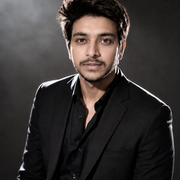
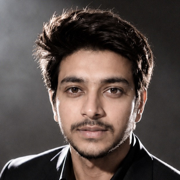
Update website

diff --git a/components/main/why-work.tsx b/components/main/why-work.tsx
@@ -5,39 +5,39 @@ import { SectionContainer } from "@/components/layout/section-container";
 const FEATURES = [
   {
     number: "01",
-    title: "Purposeful Direction",
+    title: "Cinematic-First Thinking",
     description:
-      "Every frame serves a goal. I align AI visuals and campaigns with your brand's message and business outcome — not just aesthetics.",
+      "I don't just generate visuals — I direct them. Every shot is composed with intention, built around story and emotion, not just prompts.",
   },
   {
     number: "02",
-    title: "In-The-Trenches Craft",
+    title: "Hands-On With Every Tool",
     description:
-      "I work inside the tools daily — prompting, generating, compositing, editing — so nothing gets lost between concept and final render.",
+      "I work daily inside the generative pipeline — prompting, generating, compositing, editing — so nothing gets lost between concept and final render.",
   },
   {
     number: "03",
-    title: "Insight-Led Creativity",
+    title: "Brand-Aligned Creative",
     description:
-      "Performance, feedback, and iteration shape every creative decision — blending taste with what actually connects.",
+      "AI visuals mean nothing if they don't serve the brand. I build campaigns that match your voice, audience, and business goal — not just aesthetics.",
   },
   {
     number: "04",
-    title: "AI-Powered Speed",
+    title: "Speed Without Compromise",
     description:
-      "Gen-AI pipelines let me produce cinematic-quality output in days, not months — fast turnaround without cutting corners.",
+      "Generative AI lets me deliver cinematic-quality ads in days, not weeks — without cutting corners on craft or consistency.",
   },
   {
     number: "05",
-    title: "Ownership Mindset",
+    title: "Full Ownership of the Process",
     description:
-      "I treat every project like my own — from the first prompt to the final export, delivering polished, ready-to-publish work.",
+      "From first concept to final cut, I run the entire pipeline myself — no handoffs, no dilution of vision.",
   },
   {
     number: "06",
-    title: "Results-Driven",
+    title: "Built for Real Impact",
     description:
-      "Portfolio is nice, but impact matters. I build content engineered for views, engagement, and conversion.",
+      "A good reel is nice. A campaign that performs is better. I focus on output that actually moves the needle for the brand.",
   },
 ];
 

diff --git a/components/sub/project-card.tsx b/components/sub/project-card.tsx
@@ -12,7 +12,13 @@ type ProjectCardProps = {
   category: string;
 };
 
-const THUMB_QUALITIES = ["maxresdefault", "hqdefault", "mqdefault", "default"];
+const THUMB_CANDIDATES = [
+  { host: "https://img.youtube.com/vi", quality: "maxresdefault" },
+  { host: "https://i.ytimg.com/vi", quality: "hq2" },
+  { host: "https://img.youtube.com/vi", quality: "hqdefault" },
+  { host: "https://img.youtube.com/vi", quality: "mqdefault" },
+  { host: "https://img.youtube.com/vi", quality: "default" },
+];
 
 const PlayIcon = ({ className = "h-6 w-6" }: { className?: string }) => (
   <svg
@@ -41,13 +47,13 @@ export const ProjectCard = ({
   title,
   category,
 }: ProjectCardProps) => {
-  const [thumbQuality, setThumbQuality] = useState(0);
+  const [thumbIndex, setThumbIndex] = useState(0);
   const [thumbFailed, setThumbFailed] = useState(false);
   const [isModalOpen, setIsModalOpen] = useState(false);
   const [portalRoot, setPortalRoot] = useState<HTMLElement | null>(null);
 
   const videoUrl = `https://www.youtube.com/watch?v=${videoId}`;
-  const thumbUrl = `https://img.youtube.com/vi/${videoId}/${THUMB_QUALITIES[thumbQuality]}.jpg`;
+  const thumbUrl = `${THUMB_CANDIDATES[thumbIndex].host}/${videoId}/${THUMB_CANDIDATES[thumbIndex].quality}.jpg`;
 
   useEffect(() => {
     setPortalRoot(document.body);
@@ -75,8 +81,8 @@ export const ProjectCard = ({
   }, []);
 
   const handleThumbError = () => {
-    if (thumbQuality < THUMB_QUALITIES.length - 1) {
-      setThumbQuality((q) => q + 1);
+    if (thumbIndex < THUMB_CANDIDATES.length - 1) {
+      setThumbIndex((i) => i + 1);
     } else {
       setThumbFailed(true);
     }

diff --git a/constants/index.ts b/constants/index.ts
@@ -164,6 +164,18 @@ export const WORK_ITEMS = [
     category: "AI Short Film",
     tag: "AI Short Film",
   },
+  {
+    videoId: "heb5EEkZRBU",
+    title: "AI Visual Story 2",
+    category: "AI Visual Story",
+    tag: "AI Visual Story",
+  },
+  {
+    videoId: "J7iQx6SheMo",
+    title: "AI Visual Story",
+    category: "AI Visual Story",
+    tag: "AI Visual Story",
+  },
 ] satisfies readonly WorkItem[];
 
 export type WorkSection = {
@@ -188,6 +200,13 @@ export const WORK_SECTIONS = [
     subtitle: "Cinematic narrative pieces",
     noun: "film",
     tags: ["AI Short Film"],
+  },
+  {
+    id: "ai-visual-stories",
+    title: "AI Visual Stories",
+    subtitle: "Cinematic AI experiments",
+    noun: "film",
+    tags: ["AI Visual Story"],
   },
   {
     id: "ugc-commercials",

diff --git a/next.config.js b/next.config.js
@@ -6,6 +6,10 @@ const nextConfig = {
         protocol: "https",
         hostname: "img.youtube.com",
       },
+      {
+        protocol: "https",
+        hostname: "i.ytimg.com",
+      },
     ],
   },
 }
